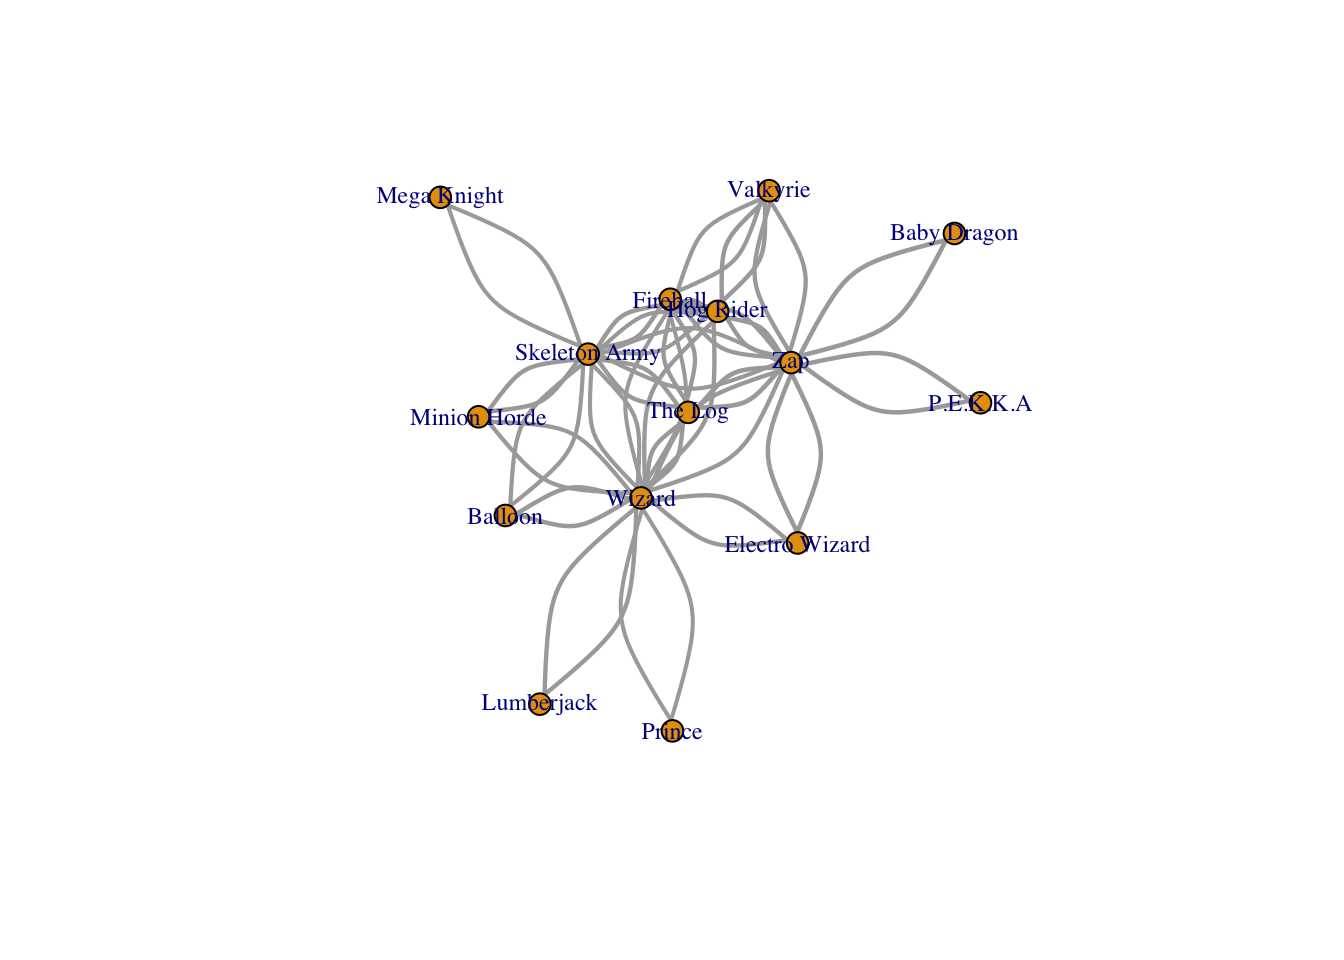
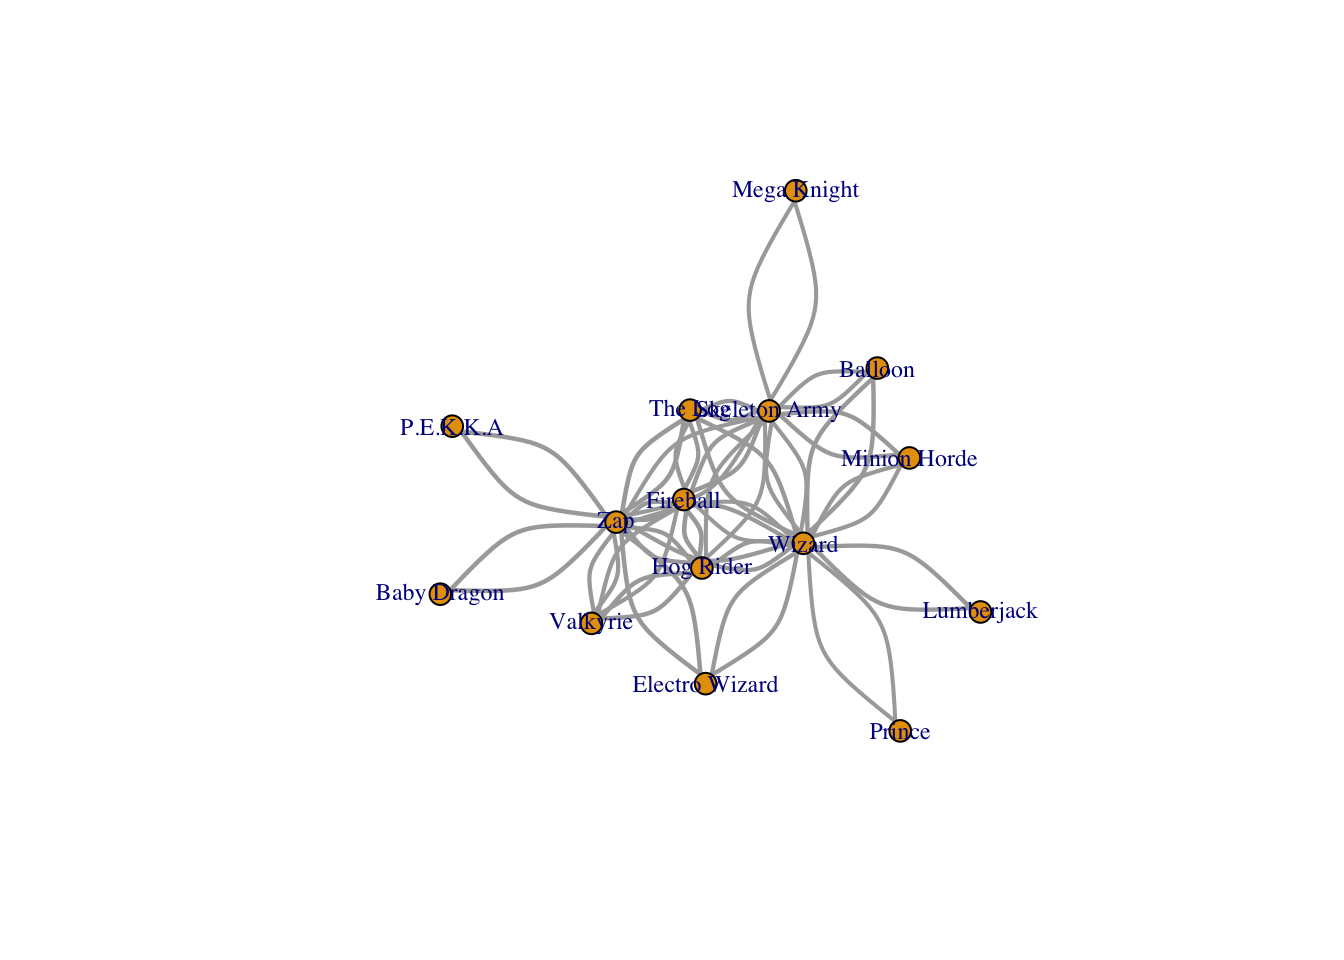
update

diff --git a/kevineuyoque/clash_royale/ClashRoyaleDraft.html b/kevineuyoque/clash_royale/ClashRoyaleDraft.html
@@ -7,6 +7,7 @@
 <meta name="viewport" content="width=device-width, initial-scale=1.0, user-scalable=yes">
 
 <meta name="author" content="Kevin Euyoque">
+<meta name="author" content="Ivan Ramler">
 <meta name="description" content="A network analysis tutorial exploring card synergy in Clash Royale using Season 3 deck data.">
 
 <title>Clash Royale Card Synergy: A Network Analysis Tutorial</title>
@@ -97,11 +98,19 @@ pre > code.sourceCode > span > a:first-child::before { text-decoration: underlin
 </div>
 
 <div class="quarto-title-meta-author">
-  <div class="quarto-title-meta-heading">Author</div>
+  <div class="quarto-title-meta-heading">Authors</div>
   <div class="quarto-title-meta-heading">Affiliation</div>
   
     <div class="quarto-title-meta-contents">
-    <p class="author">Kevin Euyoque </p>
+    <p class="author">Kevin Euyoque <a href="mailto:kevin.euyoque04@gmail.com" class="quarto-title-author-email"><i class="bi bi-envelope"></i></a> </p>
+  </div>
+  <div class="quarto-title-meta-contents">
+        <p class="affiliation">
+            St.&nbsp;Lawrence University
+          </p>
+      </div>
+    <div class="quarto-title-meta-contents">
+    <p class="author">Ivan Ramler <a href="mailto:mailto:iramler@stlawu.edu" class="quarto-title-author-email"><i class="bi bi-envelope"></i></a> </p>
   </div>
   <div class="quarto-title-meta-contents">
         <p class="affiliation">
@@ -178,6 +187,9 @@ Activity Length
 </div>
 </div>
 </div>
+</section>
+<section id="a-class-period" class="level1">
+<h1>a class period</h1>
 <div class="callout callout-style-simple callout-note no-icon callout-titled" title="Methods">
 <div class="callout-header d-flex align-content-center" data-bs-toggle="collapse" data-bs-target=".callout-3-contents" aria-controls="callout-3" aria-expanded="false" aria-label="Toggle callout">
 <div class="callout-icon-container">
@@ -194,16 +206,18 @@ Methods
 <p>This activity is designed to be completed in R using RStudio and Quarto.</p>
 <p>Packages used in this module:</p>
 <ul>
-<li>tidyverse</li>
-<li>igraph</li>
-<li>vembedr</li>
-<li>netrankr</li>
+<li><a href="inserturl" target="_blank">tidyverse</a></li>
+<li><a href="inserturl" target="_blank">igraph</a></li>
+<li><a href="inserturl" target="_blank">vembedr</a></li>
+<li><a href="inserturl" target="_blank">netrankr</a></li>
 </ul>
 <p>Some previous experience with data wrangling in R is helpful, but no previous experience with network analysis is required.</p>
 </div>
 </div>
 </div>
 </section>
+<section id="add-a-hyperlink-that-sends-the-reader-to-the-page-for-each-package" class="level1">
+<h1>add a hyperlink that sends the reader to the page for each package</h1>
 <section id="data" class="level2">
 <h2 class="anchored" data-anchor-id="data">Data</h2>
 <p>The main dataset used in this module is cr_season3_5000decks.csv, which contains deck-level Clash Royale data from Season 3. Each row corresponds to a card appearing in a specific deck, along with whether that deck won.</p>
@@ -251,6 +265,9 @@ Methods
 </ul>
 </details>
 </section>
+</section>
+<section id="insert-into-module-instead" class="level1">
+<h1>insert into module instead</h1>
 <section id="goal-of-this-module" class="level2">
 <h2 class="anchored" data-anchor-id="goal-of-this-module">Goal of this module</h2>
 <p>In this tutorial, we will treat Clash Royale cards as nodes in a network.</p>
@@ -362,6 +379,7 @@ lgl (2): evolution, hero_upgrade
 </div>
 </div>
 </section>
+</section>
 <section id="network-representation" class="level1">
 <h1>Network Representation</h1>
 <p>To represent Clash Royale synergy as a network, we will model the data as a graph.</p>
@@ -373,9 +391,9 @@ lgl (2): evolution, hero_upgrade
 <span id="cb14-5"><a href="#cb14-5" aria-hidden="true" tabindex="-1"></a></span>
 <span id="cb14-6"><a href="#cb14-6" aria-hidden="true" tabindex="-1"></a>network</span></code><button title="Copy to Clipboard" class="code-copy-button"><i class="bi"></i></button></pre></div>
 <div class="cell-output cell-output-stdout">
-<pre><code>IGRAPH c402981 UN-- 69 1572 -- 
+<pre><code>IGRAPH 9583a89 UN-- 69 1572 -- 
 + attr: name (v/c), decks (e/n), wins (e/n), winrate (e/n)
-+ edges from c402981 (vertex names):
++ edges from 9583a89 (vertex names):
  [1] Hog Rider     --Zap Valkyrie      --Zap Giant Skeleton--Zap
  [4] Baby Dragon   --Zap Mini P.E.K.K.A--Zap Witch         --Zap
  [7] Musketeer     --Zap Balloon       --Zap Arrows        --Zap
@@ -440,17 +458,19 @@ lgl (2): evolution, hero_upgrade
 </div>
 <div class="cell">
 <div class="sourceCode cell-code" id="cb17"><pre class="sourceCode r code-with-copy"><code class="sourceCode r"><span id="cb17-1"><a href="#cb17-1" aria-hidden="true" tabindex="-1"></a>pair_data_16 <span class="ot">&lt;-</span> pair_data <span class="sc">|&gt;</span></span>
-<span id="cb17-2"><a href="#cb17-2" aria-hidden="true" tabindex="-1"></a>  <span class="fu">filter</span>(card1 <span class="sc">%in%</span> used_cards, card2 <span class="sc">%in%</span> used_cards)</span>
-<span id="cb17-3"><a href="#cb17-3" aria-hidden="true" tabindex="-1"></a></span>
-<span id="cb17-4"><a href="#cb17-4" aria-hidden="true" tabindex="-1"></a></span>
+<span id="cb17-2"><a href="#cb17-2" aria-hidden="true" tabindex="-1"></a>  <span class="fu">filter</span>(card1 <span class="sc">%in%</span> used_cards, card2 <span class="sc">%in%</span> used_cards) <span class="sc">|&gt;</span></span>
+<span id="cb17-3"><a href="#cb17-3" aria-hidden="true" tabindex="-1"></a>  <span class="fu">mutate</span>(<span class="at">synergy =</span> <span class="fu">ifelse</span>(winrate <span class="sc">&gt;</span> <span class="fl">0.50</span>, <span class="dv">1</span>, <span class="dv">0</span>)) <span class="sc">|&gt;</span></span>
+<span id="cb17-4"><a href="#cb17-4" aria-hidden="true" tabindex="-1"></a>  <span class="fu">select</span>(card1, card2, synergy)</span>
 <span id="cb17-5"><a href="#cb17-5" aria-hidden="true" tabindex="-1"></a></span>
-<span id="cb17-6"><a href="#cb17-6" aria-hidden="true" tabindex="-1"></a>network_16 <span class="ot">&lt;-</span> <span class="fu">graph_from_data_frame</span>(pair_data_16, <span class="at">directed =</span> <span class="cn">FALSE</span>)</span>
+<span id="cb17-6"><a href="#cb17-6" aria-hidden="true" tabindex="-1"></a></span>
 <span id="cb17-7"><a href="#cb17-7" aria-hidden="true" tabindex="-1"></a></span>
-<span id="cb17-8"><a href="#cb17-8" aria-hidden="true" tabindex="-1"></a><span class="fu">plot</span>(network_16,</span>
-<span id="cb17-9"><a href="#cb17-9" aria-hidden="true" tabindex="-1"></a>     <span class="at">layout =</span> layout_with_fr,</span>
-<span id="cb17-10"><a href="#cb17-10" aria-hidden="true" tabindex="-1"></a>     <span class="at">vertex.size =</span> <span class="dv">8</span>,</span>
-<span id="cb17-11"><a href="#cb17-11" aria-hidden="true" tabindex="-1"></a>     <span class="at">vertex.label.cex =</span> .<span class="dv">8</span>,</span>
-<span id="cb17-12"><a href="#cb17-12" aria-hidden="true" tabindex="-1"></a>     <span class="at">edge.width =</span> <span class="fu">E</span>(network_16)<span class="sc">$</span>winrate <span class="sc">*</span> <span class="dv">4</span>)</span></code><button title="Copy to Clipboard" class="code-copy-button"><i class="bi"></i></button></pre></div>
+<span id="cb17-8"><a href="#cb17-8" aria-hidden="true" tabindex="-1"></a>network_16 <span class="ot">&lt;-</span> <span class="fu">graph_from_data_frame</span>(pair_data_16, <span class="at">directed =</span> <span class="cn">FALSE</span>)</span>
+<span id="cb17-9"><a href="#cb17-9" aria-hidden="true" tabindex="-1"></a></span>
+<span id="cb17-10"><a href="#cb17-10" aria-hidden="true" tabindex="-1"></a><span class="fu">plot</span>(network_16,</span>
+<span id="cb17-11"><a href="#cb17-11" aria-hidden="true" tabindex="-1"></a>     <span class="at">layout =</span> layout_with_fr,</span>
+<span id="cb17-12"><a href="#cb17-12" aria-hidden="true" tabindex="-1"></a>     <span class="at">vertex.size =</span> <span class="dv">8</span>,</span>
+<span id="cb17-13"><a href="#cb17-13" aria-hidden="true" tabindex="-1"></a>     <span class="at">vertex.label.cex =</span> .<span class="dv">8</span>,</span>
+<span id="cb17-14"><a href="#cb17-14" aria-hidden="true" tabindex="-1"></a>     <span class="at">edge.width =</span> <span class="fu">E</span>(network_16)<span class="sc">$</span>synergy <span class="sc">*</span> <span class="dv">4</span>)</span></code><button title="Copy to Clipboard" class="code-copy-button"><i class="bi"></i></button></pre></div>
 <div class="cell-output-display">
 <div>
 <figure class="figure">
